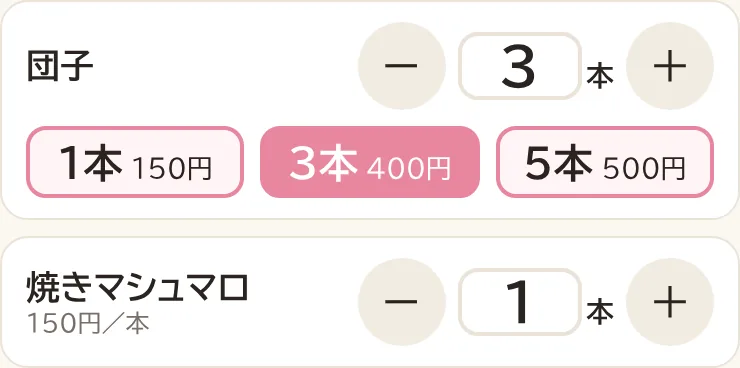
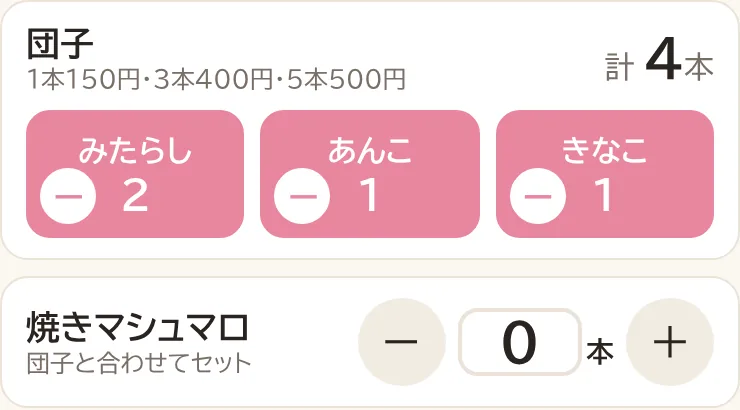
キッチン画面のスクリーンショットを撮り、ヘルプと README を充実
- キッチン画面のヘルプを、スクリーンショットつきのよくある質問に（見かた・できた/戻す・遅れ・取消・音・通信）
- レジのヘルプを味ごとの入力に合わせて書き直し、画像を撮り直し（味ボタン・お会計・確認画面・最近の会計）。キッチンとの連携、会計番号と「できた」の説明を追加
- 管理画面とダッシュボードのヘルプに味の説明と画像を追加
- README に当日の注文の流れ、キッチンの詳しい説明、スクリーンショット、準備の手順（味の登録・キッチン端末）を追加
- スワイプ中の表示を、確定するところで不透明な緑＋「離すと『できた』」に変更
- ヘルプ画像を差し替えたので Service Worker の版を更新

Claude-Session: https://claude.ai/code/session_01UZ9qf5JxoP9bu9V8PunLta

diff --git a/public/admin.html b/public/admin.html
@@ -388,13 +388,13 @@
   <details open>
     <summary>会計の基本の流れは？</summary>
     <ol>
-      <li>商品（団子、焼きマシュマロ）ごとに、お客さんが買う本数を入れる（セットは自動で一番安く組まれます）</li>
+      <li>お客さんの注文を聞いて、<b>味ごと</b>に本数を入れる（団子は味のボタンをタップ、焼きマシュマロは「＋」「−」。セットは自動で一番安く組まれます）</li>
       <li>「お会計」で合計金額を確認して、お客さんに伝える</li>
       <li>支払方法（現金、PayPay、d払い）のボタンを押す</li>
       <li>現金ならお預かり金額を入れる</li>
-      <li>確認画面で内容を見て「はい（記録する）」を押す</li>
+      <li>確認画面で内容（味も）を見て「はい（記録する）」を押す</li>
     </ol>
-    <p>記録すると画面下に「記録しました」と出て、お会計は空に戻ります。現金のときは、その表示にもおつりが出ます。電波がなくても記録できます（あとで自動で送信されます）。</p>
+    <p>記録すると画面下に「記録しました」と出て、お会計は空に戻ります。現金のときは、その表示にもおつりが出ます。記録した注文は<b>キッチン画面に自動で届く</b>ので、ノートに書いたり口で伝えたりする必要はありません。電波がなくても記録できます（あとで自動で送信されます）。</p>
   </details>
 
   <details>
@@ -413,19 +413,21 @@
   <h3 class="help-group">会計のしかた</h3>
 
   <details>
-    <summary>本数の入れ方は？</summary>
-    <figure class="narrow"><img src="/help/reg-qty.webp" width="370" height="184" loading="lazy" alt="商品ごとの本数の入力欄。団子はマイナス、本数、プラスのボタンと、1本、3本、5本のボタン。焼きマシュマロはマイナス、本数、プラスのボタン"></figure>
-    <p>商品ごとに本数を入れます。団子は「1本」「3本」「5本」のボタンを押すと、その本数になります（足し算ではありません）。それ以外の本数は「＋」「−」で増減するか、数字をタップして直接入力します。焼きマシュマロのようにセットのない商品は「＋」「−」で入れます。</p>
-    <p>セットの組み方は自動です。たとえば団子4本なら「3本セット＋1本」、7本なら「5本セット＋1本×2」と、お客さんに一番有利な組み方で計算します。</p>
-    <p><b>味のある商品</b>（管理画面で味を登録した商品）は、数の入れ方が変わります。お客さんの言う味のボタンを、その本数だけタップしてください（「みたらし2本、あんこ1本」なら みたらし を2回、あんこ を1回）。押しすぎたら、そのボタンの右上の「−」で減らします。合計の本数でセットが自動で組まれるので、味の組み合わせは自由です。入れた味はキッチン画面に注文として届きます。</p>
-    <p>焼きマシュマロは<b>団子と合わせてセット</b>になります。たとえば団子3本＋焼きマシュマロ2本なら、合わせて5本で「5本セット500円」です。容器代は団子の本数だけで計算します。</p>
+    <summary>本数の入れ方は？（味ごとの入力）</summary>
+    <figure class="narrow"><img src="/help/reg-qty.webp" width="370" height="205" loading="lazy" alt="商品ごとの入力欄。団子は、みたらし2、あんこ1、きなこ1の味のボタンと、計4本の表示。各ボタンの左下にマイナス。焼きマシュマロはマイナス、本数、プラスのボタン"></figure>
+    <p><b>団子のように味のある商品</b>は、お客さんの言う味のボタンを、その本数だけタップします。「みたらし2本と、あんこ・きなこ1本ずつ」なら、「みたらし」を2回、「あんこ」と「きなこ」を1回ずつ押します。ボタンに本数が出て、右上の「計 ○本」が合計です。</p>
+    <p>押しすぎたら、そのボタンの左下の「−」で1本ずつ減らします（「−」は1本以上入っている味にだけ出ます）。全部やり直すときは「お会計」の「クリア」を押します。</p>
+    <p>セットの組み方は<b>味に関係なく合計の本数</b>で自動で決まります。たとえば団子4本なら「3本セット＋1本」、7本なら「5本セット＋1本×2」と、お客さんに一番有利な組み方で計算します。味の組み合わせは自由です。</p>
+    <p>焼きマシュマロのように味のない商品は「＋」「−」で増減するか、数字をタップして直接入力します。焼きマシュマロは<b>団子と合わせてセット</b>になります。たとえば団子3本＋焼きマシュマロ2本なら、合わせて5本で「5本セット500円」です。容器代は団子の本数だけで計算します。</p>
+    <p>味の種類は管理画面で変えられます（変えると30秒以内にレジのボタンも変わります）。</p>
   </details>
 
   <details>
     <summary>「あと1本で〜お得」と出たら？</summary>
-    <figure class="narrow"><img src="/help/reg-cart.webp" width="370" height="193" loading="lazy" alt="お会計欄。団子4本（3本セットと1本）、容器代10円、合計560円。あと1本で50円お得という提案と、5本にするボタン"></figure>
+    <figure class="narrow"><img src="/help/reg-cart.webp" width="370" height="201" loading="lazy" alt="お会計欄。団子4本（3本セットと1本）550円、その下に味の内訳みたらし2・あんこ1・きなこ1、容器代10円、あと1本で50円お得（味を聞いて追加）という提案、合計560円"></figure>
     <p>本数を少し足したほうが合計が安くなるときに出る提案です。上の例では、団子4本だと560円ですが、5本にすると510円で50円安くなります。</p>
-    <p>お客さんに「あと1本足すとお得になりますよ」と声をかけて、希望されたら黄色の「5本にする」ボタンを押してください。そのままでよければ、何もせず会計に進んでかまいません。</p>
+    <p>お客さんに「あと1本足すとお得になりますよ」と声をかけて、希望されたら<b>何味にするか聞いて</b>、その味のボタンを押してください。そのままでよければ、何もせず会計に進んでかまいません。</p>
+    <p>味のない商品だけのときは、提案の横に黄色の「○本にする」ボタンが出るので、それを押せば足せます。</p>
   </details>
 
   <details>
@@ -453,8 +455,8 @@
 
   <details>
     <summary>確認画面では何を見ればいい？</summary>
-    <figure class="narrow"><img src="/help/reg-confirm.webp" width="358" height="451" loading="lazy" alt="確認画面。現金の表示、団子5本セット500円、容器代10円、合計510円、お預かり1,000円、おつり490円、いいえとはいのボタン"></figure>
-    <p>いちばん上の色つきの帯が支払方法です（現金は緑、PayPay と d払いは赤）。本数、合計金額、現金ならおつりを確かめて、よければ「はい（記録する）」を押します。</p>
+    <figure class="narrow"><img src="/help/reg-confirm.webp" width="390" height="520" loading="lazy" alt="確認画面。現金の表示、団子5本セット500円、容器代10円、数量 団子5本、味 みたらし2・あんこ2・きなこ1、合計510円、お預かり1,000円、おつり490円、いいえとはいのボタン"></figure>
+    <p>いちばん上の色つきの帯が支払方法です（現金は緑、PayPay と d払いは赤）。本数、<b>味</b>（ピンクの行）、合計金額、現金ならおつりを確かめて、よければ「はい（記録する）」を押します。味は、お客さんに読み上げて確かめると間違いが減ります。</p>
     <p>間違いに気づいたら「いいえ」を押すと、入力したお会計はそのままで前の画面に戻ります。現金で、お預かり金額だけを直したいときは「← お預かり金額を入力し直す」を押してください。</p>
   </details>
 
@@ -462,10 +464,16 @@
 
   <details>
     <summary>記録した会計を間違えた</summary>
-    <figure class="narrow"><img src="/help/reg-hist.webp" width="370" height="305" loading="lazy" alt="最近の会計の一覧。2行目は取消済みで取り消し線が引かれ、戻すボタンになっている"></figure>
-    <p>「最近の会計」の一覧で、その会計の「取消」を押します。取り消した会計には取り消し線が引かれ、売上と本数から外れます。正しい内容で、もう一度会計し直してください。</p>
+    <figure class="narrow"><img src="/help/reg-hist.webp" width="370" height="368" loading="lazy" alt="最近の会計の一覧。各行に会計番号と時刻、内容と味、金額、取消ボタン。キッチンで作り終わった会計には「できた」の印。取消済みの行は取り消し線が引かれ、戻すボタンになっている"></figure>
+    <p>「最近の会計」の一覧で、その会計の「取消」を押します。取り消した会計には取り消し線が引かれ、売上と本数から外れます。キッチン画面でも赤い線で「取消」と表示されるので、作らずに済みます。正しい内容（正しい味）で、もう一度会計し直してください。</p>
     <p>取り消しを間違えたときは、同じ行の「戻す」で元に戻せます。取消と戻すは、誰がいつしたかが記録されます。電波がないときも取り消せます（あとで自動で送信されます）。</p>
     <p>ここに出るのは最新の5件です。それより前の会計は、下の「すべての会計を見る」から探して取り消してください（こちらは電波が必要です）。</p>
+  </details>
+
+  <details>
+    <summary>「#12」や「✓できた」は何？</summary>
+    <p>「#12」は会計番号で、キッチン画面の注文番号と同じです。お客さんへの受け渡しや、キッチンとのやりとりに使えます（電波がなくて未送信の会計には、送信されるまで番号が付きません）。</p>
+    <p>「✓できた」は、キッチンでその注文を作り終えた印です。受け渡しの目安にしてください。</p>
   </details>
 
   <details>
@@ -499,6 +507,15 @@
   <details>
     <summary>パスワードを入れてもログインできない</summary>
     <p>パスワードを何度か間違えると、しばらく（10分間）ログインできなくなります。同じ Wi-Fi やテザリングを使っているほかの人も巻き込まれることがあります。急ぐときは、店の責任者に管理画面から解除してもらってください。</p>
+  </details>
+
+  <h3 class="help-group">キッチンとの連携</h3>
+
+  <details>
+    <summary>注文はキッチンにどう伝わる？</summary>
+    <p>会計を記録すると、その注文（味ごとの本数）が<b>キッチン画面</b>（<code>/kitchen</code>）に自動で届きます。ノートに書く必要はありません。キッチンでは届いた順に並び、作り終わったらタップして打ち消し線を引きます。</p>
+    <p>キッチン画面は、画面下の「管理（マスター）」の欄の「🍳 キッチン画面」から開けます。キッチン用のスマホやタブレットで開き、名前（例：キッチン）とレジと同じパスワードでログインしてください。</p>
+    <p>電波がない間に記録した会計は、レジから送信されてからキッチンに届きます。帯の「未送信」が残っているときは、キッチンに声をかけてください。</p>
   </details>
 
   <h3 class="help-group">そのほか</h3>

diff --git a/public/kitchen.html b/public/kitchen.html
@@ -84,9 +84,11 @@
   .cancelled .ostate { color: var(--red); font-weight: 700; }
   .order.syncing .ostate::after { content: '（送信中…）'; color: var(--sub); font-weight: 400; }
   /* スワイプ中のヒント */
-  .order .hint { position: absolute; inset: 0; border-radius: 12px; display: flex; align-items: center; padding: 0 14px; font-size: 18px; font-weight: 700; color: #fff; opacity: 0; pointer-events: none; }
-  .order .hint.ok { background: rgba(91, 140, 58, .85); }
-  .order .hint.back { background: rgba(122, 111, 102, .85); justify-content: flex-end; }
+  /* 線の手前までは薄く、指を離せば決まるところまで来たら不透明になる */
+  .order .hint { position: absolute; inset: 0; z-index: 2; border-radius: 12px; display: flex; align-items: center; justify-content: center;
+                 font-size: 26px; font-weight: 700; color: #fff; opacity: 0; pointer-events: none; }
+  .order .hint.ok { background: var(--green); }
+  .order .hint.back { background: var(--sub); }
   .empty { text-align: center; color: var(--sub); padding: 40px 12px; grid-column: 1 / -1; }
 
   /* ログイン */
@@ -139,26 +141,94 @@
     <h2>キッチン画面の使い方</h2>
     <button class="help-close" type="button">閉じる</button>
   </div>
+
+  <h3 class="help-group">はじめに</h3>
+
   <details open>
     <summary>この画面は？</summary>
-    <p>レジで記録した注文が、届いた順に並びます（数秒ごとに自動で更新）。大学ノートの代わりに、ここを見て作ってください。</p>
-    <p>上の帯の「まだ ○件」と、その下のピンクの枠は、まだ「できた」にしていない注文の合計です（例：みたらし 5、あんこ 3）。まとめて焼くときの目安にしてください。</p>
+    <figure class="narrow"><img src="/help/kitchen-phone.webp" width="390" height="844" style="max-width:220px;border:1px solid var(--line);border-radius:12px" loading="lazy" alt="キッチン画面の全体。上にまだ4件と味ごとの合計、下に注文が番号順に並び、できた注文には打ち消し線"></figure>
+    <p>レジで記録した注文が、<b>届いた順に</b>並ぶ画面です。これまで大学ノートに書いていた注文の代わりに、ここを見て作ってください。3秒ごとに自動で更新されるので、操作しなくても新しい注文が下に増えていきます。</p>
+    <p>作り終わった注文には打ち消し線を引きます（ノートの注文を線で消していたのと同じです）。</p>
   </details>
+
   <details>
-    <summary>作り終わったら？</summary>
-    <p>その注文を<b>タップ</b>するか、<b>右へスワイプ</b>すると「できた」になり、打ち消し線が引かれます。ほかのキッチンの端末やレジにも反映されます（レジの「最近の会計」に「✓できた」と出ます）。</p>
-    <p>間違えたときは、もう一度タップするか、左へスワイプすると元に戻ります。画面下に出る「元に戻す」でも戻せます。</p>
+    <summary>ログインのしかたは？</summary>
+    <figure class="narrow"><img src="/help/kitchen-login.webp" width="360" height="346" loading="lazy" alt="キッチンのログイン画面。名前とレジ用パスワードの入力欄とログインボタン"></figure>
+    <p>名前（例：「キッチン」や自分の名前）と、<b>レジと同じパスワード</b>を入れて「ログイン」を押します。ログインは3日間有効です。</p>
   </details>
+
+  <h3 class="help-group">注文の見かた</h3>
+
   <details>
-    <summary>表示について</summary>
+    <summary>1つの注文の見かたは？</summary>
+    <figure class="narrow"><img src="/help/kitchen-new.webp" width="366" height="161" loading="lazy" alt="注文のカード。#7、18時38分、1分、みたらし×1、あんこ×1、焼きマシュマロ×2"></figure>
     <ul>
-      <li>右上の「○分」は、注文してからの時間です。10分を超えるとオレンジ、15分を超えると赤になります。</li>
-      <li>レジで取り消された注文には赤い線が引かれ、「取消」と出ます（作らなくてよい注文です）。</li>
-      <li>「できたを隠す」を押すと、できた注文を一覧から隠します。</li>
-      <li>「🔔 音」がオンのとき、新しい注文が届くと音が鳴ります（最初に一度画面をタップすると鳴るようになります）。</li>
-      <li>表示されるのは今日の注文だけです。番号はレジの会計番号（#）と同じです。</li>
-      <li>電波のないところでレジが打った注文は、レジが送信してから届きます。</li>
+      <li><b>#7</b>：注文番号（レジの会計番号と同じ）</li>
+      <li><b>18:38</b>：レジで会計した時刻</li>
+      <li><b>右上の「1分」</b>：注文してからの時間</li>
+      <li><b>みたらし ×1</b>：作る味と本数。味のない商品（焼きマシュマロなど）は商品名で出ます</li>
     </ul>
+  </details>
+
+  <details>
+    <summary>上のピンクの枠（味ごとの合計）は？</summary>
+    <figure class="narrow"><img src="/help/kitchen-todo.webp" width="390" height="159" loading="lazy" alt="画面上部。キッチン、まだ4件、更新時刻、できたを隠す・音・使い方のボタン、みたらし4・あんこ4・きなこ3・焼きマシュマロ3"></figure>
+    <p>「まだ ○件」は、まだ「できた」にしていない注文の数です。ピンクの枠は、それらの注文を<b>味ごとに足した本数</b>です。まとめて焼くときや、タレの準備の目安にしてください。「できた」にすると、その分が減ります。</p>
+  </details>
+
+  <details>
+    <summary>枠がオレンジや赤になった</summary>
+    <figure class="narrow"><img src="/help/kitchen-late.webp" width="366" height="189" loading="lazy" alt="赤い枠の注文。#3、17分、みたらし×2、あんこ×1、きなこ×1、焼きマシュマロ×1"></figure>
+    <p>注文から時間がたっている印です。<b>10分を超えるとオレンジ、15分を超えると赤</b>になります。お客さんを待たせているので、先に作るか、レジに声をかけてください。</p>
+  </details>
+
+  <details>
+    <summary>赤い線で「取消」と出ている</summary>
+    <figure class="narrow"><img src="/help/kitchen-cancel.webp" width="366" height="107" loading="lazy" alt="取り消された注文。#5、みたらし×1に赤い線、取消（作らなくてよい注文です）"></figure>
+    <p>レジで取り消された注文です。<b>作らなくてかまいません</b>（味ごとの合計にも入っていません）。たいていは、すぐ後ろに正しい内容の注文が届いています。</p>
+  </details>
+
+  <h3 class="help-group">作り終わったら</h3>
+
+  <details>
+    <summary>「できた」にするには？</summary>
+    <figure class="narrow"><img src="/help/kitchen-swipe.webp" width="390" height="185" loading="lazy" alt="注文のカードを右へスワイプしている途中。緑色になり、離すとできたと表示"></figure>
+    <p>その注文を<b>タップ</b>するか、<b>右へスワイプ</b>します。スワイプは、カードが緑色になって「離すと『できた』」と出たところで指を離してください（途中で離すと何も変わりません）。</p>
+    <figure class="narrow"><img src="/help/kitchen-done.webp" width="366" height="105" loading="lazy" alt="できた注文。#2、きなこ×3に打ち消し線、できた18時39分（タップで戻す）"></figure>
+    <p>「できた」にすると打ち消し線が引かれ、時刻が記録されます。ほかのキッチンの端末と、レジの「最近の会計」（「✓できた」）にも反映されます。</p>
+  </details>
+
+  <details>
+    <summary>間違えて「できた」にした</summary>
+    <p>もう一度タップするか、<b>左へスワイプ</b>すると元に戻ります。直後なら、画面下に出る「元に戻す」を押しても戻せます。</p>
+  </details>
+
+  <details>
+    <summary>できた注文が多くて見づらい</summary>
+    <p>上の「できたを隠す」を押すと、できた注文と取り消された注文を一覧から隠します。もう一度押すと表示に戻ります（この端末だけの設定です）。</p>
+  </details>
+
+  <h3 class="help-group">そのほか</h3>
+
+  <details>
+    <summary>新しい注文の音が鳴らない</summary>
+    <p>スマホやタブレットは、画面を一度も触っていないと音を出せません。画面を開いたら、どこか一度タップしてください。「🔔 音」が「🔕 音なし」になっていたら、押してオンにします。マナーモードやサイレントの設定も確かめてください。新しい注文は、音と一緒にピンクに光ります。</p>
+  </details>
+
+  <details>
+    <summary>右上が赤く「通信できません」と出た</summary>
+    <p>電波が届いていません。その間は新しい注文が届かず、「できた」も送れません。電波が戻ると自動で更新されます。</p>
+    <p>レジ側の電波がないときは、レジで記録した注文がレジの端末にたまり、送信されてからキッチンに届きます。注文が来ないと思ったら、レジに「未送信」がないか聞いてください。</p>
+  </details>
+
+  <details>
+    <summary>昨日の注文が出ない</summary>
+    <p>この画面に出るのは<b>今日（日本時間）の注文だけ</b>です。日付が変わると一覧は空になります。過去の会計はレジの「すべての会計を見る」で見られます。</p>
+  </details>
+
+  <details>
+    <summary>味の種類を変えたい</summary>
+    <p>味の種類は管理画面の「商品・価格」で変えます（マスターパスワードが必要なので、店の責任者に頼んでください）。すでに届いている注文の味の表示は変わりません。</p>
   </details>
 </dialog>
 
@@ -340,7 +410,7 @@
         : done ? '✓ できた' + (o.doneAt && !(o.id in overrides) ? ' ' + hhmm(o.doneAt) : '') + '（タップで戻す）'
         : 'タップ／右へスワイプで「できた」';
       return '<div class="' + cls.join(' ') + '" data-id="' + o.id + '" role="button" tabindex="0" aria-pressed="' + done + '">' +
-        '<div class="hint ok">✓ できた</div><div class="hint back">戻す ↩</div>' +
+        '<div class="hint ok">✓ 離すと「できた」</div><div class="hint back">↩ 離すと戻す</div>' +
         '<div class="oh"><span class="no">#' + o.id + '</span><span class="tm">' + hhmm(o.createdAt) + '</span>' +
           '<span class="age">' + (done || o.cancelled ? '' : age.text) + '</span></div>' +
         '<ul class="ol">' + o.lines.map(l => '<li><span>' + lineLabel(l) + '</span><span class="q t">×' + l.qty + '</span></li>').join('') + '</ul>' +
@@ -397,7 +467,7 @@
     }
     drag.dx = dx;
     drag.el.style.transform = 'translateX(' + dx + 'px)';
-    const k = Math.min(1, Math.abs(dx) / SWIPE);
+    const k = Math.abs(dx) >= SWIPE ? 1 : Math.min(0.6, Math.abs(dx) / SWIPE * 0.6);
     drag.el.querySelector('.hint.ok').style.opacity = dx > 0 ? k : 0;
     drag.el.querySelector('.hint.back').style.opacity = dx < 0 ? k : 0;
   });

diff --git a/public/master.html b/public/master.html
@@ -224,18 +224,19 @@
 
   <details open>
     <summary>管理画面でできること</summary>
-    <p>店の責任者向けの画面です。商品・価格と容器代のルールの変更、目標金額の変更、レジのパスワードの変更、ログイン中の端末の締め出し、ログイン制限の解除、テスト用の売上記録の全リセットができます。入るにはマスターパスワードが必要で、ログインは<b>12時間</b>有効です。</p>
-    <p>会計の入力や取り消しは、ここではなくレジ画面で行います。</p>
+    <p>店の責任者向けの画面です。商品・価格・味と容器代のルールの変更、目標金額の変更、レジのパスワードの変更、ログイン中の端末の締め出し、ログイン制限の解除、テスト用の売上記録の全リセットができます。入るにはマスターパスワードが必要で、ログインは<b>12時間</b>有効です。</p>
+    <p>会計の入力や取り消しは、ここではなくレジ画面で行います。注文の調理の管理は、キッチン画面（<code>/kitchen</code>・レジのパスワードでログイン）で行います。</p>
   </details>
 
   <h3 class="help-group">よく使う操作</h3>
 
   <details>
     <summary>商品や価格を変える・追加する</summary>
-    <figure><img src="/help/master-products.webp" width="658" height="270" loading="lazy" alt="商品・価格の欄。団子の商品名、単位、1本150円、3本セット400円、5本セット500円、容器代の対象と販売中のチェック、保存ボタン"></figure>
+    <figure><img src="/help/master-products.webp" width="638" height="369" loading="lazy" alt="商品・価格の欄。団子の商品名、単位、1本150円、3本セット400円、5本セット500円、味の欄（みたらし、あんこ、きなこ）、セットの選択、容器代の対象と販売中のチェック、保存ボタン"></figure>
     <p>「商品・価格」で、商品名、単位、数量ごとの価格（セット）を直して「保存」を押します。変えた商品の枠は保存するまで黄色になります。新しい商品は「＋ 商品を追加」から。1個（1本）の価格は必ず入れてください。</p>
     <p>「セット」で「○○のセット価格に含める」を選ぶと、その商品と本数を合わせて、相手の商品のセット価格で計算します（例：<b>焼きマシュマロの欄</b>で「団子のセット価格に含める」にすると、団子3本＋焼きマシュマロ2本で5本セット500円）。相手に選べるのは、セット価格（2本以上の価格）がある商品だけです。混ぜたセットの金額は、本数の割合で商品ごとに分けて記録します。</p>
-    <p>「味」に「みたらし、あんこ、きなこ」のように「、」で区切って入れると、レジではその商品を<b>味ごとに</b>数えて入力するようになり、キッチンの注文キュー（<code>/kitchen</code>）にも味ごとに表示されます。セットの組み方や金額は味に関係なく、合計の本数で決まります。味を空にすると、これまでどおり数だけを入れる商品になります。</p>
+    <p>「味」に「みたらし、あんこ、きなこ」のように「、」で区切って入れると、レジではその商品を<b>味ごとに</b>数えて入力するようになり、キッチン画面（<code>/kitchen</code>）にも味ごとに表示されます。セットの組み方や金額は味に関係なく、合計の本数で決まります。味を空にすると、これまでどおり数だけを入れる商品になります。味は12種類まで、1つ12文字までです。並べた順に、レジのボタンとキッチンの合計が並びます。</p>
+    <p>味の名前を変えたり消したりしても、すでに記録した会計の味は、記録したときの名前のまま残ります。営業中に変えると、レジで入力途中の会計から消した味の分が外れるので、会計の合間に変えてください。</p>
     <p>「容器代の対象」にした商品の本数で容器代を計算します。「販売中」を外すとレジに出なくなります（販売の記録がある商品は削除できないので、こちらで止めてください）。↑↓ でレジでの並び順を変えられます。</p>
     <p>価格を変えても、すでに記録した会計の金額は変わりません。レジは次に画面を更新したとき（30秒以内）に新しい価格になります。</p>
   </details>

diff --git a/public/index.html b/public/index.html
@@ -228,6 +228,8 @@
   <details>
     <summary>「売れた数」とセットの個数</summary>
     <p>商品ごとの売れた数（本数）と、セットのある商品はセットごとの個数です。レジは本数からセットを自動で組むので、たとえば団子4本の会計は「3本セット1個と1本1個」として数えます。</p>
+    <figure class="narrow"><img src="/help/dash-flavors.webp" width="316" height="233" loading="lazy" alt="売れた数の団子の欄。セットごとの個数の下に、味ごとの本数（みたらし、あんこ、きなこ）"></figure>
+    <p>味を登録した商品は、その下に<b>味ごとの本数</b>も出ます（取り消した会計は除く）。どの味がよく売れているかを見て、仕込みや来年の仕入れの参考にしてください。</p>
   </details>
 
   <details>

diff --git a/public/sw.js b/public/sw.js
@@ -6,7 +6,7 @@
  * - ネットワーク優先：つながれば最新を表示してキャッシュも更新、つながらない（または遅い）ときだけキャッシュを使う。
  * - アプリを更新したら VERSION を変える。新しい版が入ると古いキャッシュは消える。
  */
-const VERSION = '2026-11-02-2';
+const VERSION = '2026-11-02-3';
 const CACHE = 'mogiten-register-' + VERSION;
 const FONT_CACHE = 'mogiten-fonts-v1';      // Web フォント（版をまたいで使い回す）
 const SHELL = ['/admin', '/pricing.js', '/help.css', '/help.js'];

diff --git a/README.md b/README.md
@@ -10,6 +10,24 @@
 | 管理画面 | `https://mogiten.<あなたのサブドメイン>.workers.dev/master` | マスターパスワード（12時間有効） |
 | キッチン | `https://mogiten.<あなたのサブドメイン>.workers.dev/kitchen` | 名前＋レジ用パスワード（レジと同じ・3日間有効） |
 
+<p>
+<img src="public/help/kitchen-tablet.webp" width="640" alt="キッチン画面（タブレット）。上にまだ4件と味ごとの合計、注文が番号順に並び、できた注文には打ち消し線、取消は赤い線、時間がたった注文はオレンジや赤の枠">
+</p>
+
+## 当日の注文の流れ
+
+これまでは注文の味を大学ノートに書き、厨房がノートを見て作っていました。この版から、レジで記録した注文がそのままキッチン画面に届きます。
+
+1. **レジ**（`/admin`）：お客さんの注文を聞き、味のボタンを本数だけタップ → 支払方法 → 確認画面で味を読み上げて「はい（記録する）」
+2. **キッチン**（`/kitchen`）：注文が届いた順に並ぶ（数秒で届き、音が鳴る）。上のピンクの枠の「味ごとの合計」を見てまとめて焼く
+3. 作り終わったら注文を **タップ（または右へスワイプ）** → 打ち消し線が引かれ、レジの「最近の会計」にも「✓できた」が出る
+4. 注文番号（#）はレジとキッチンで共通。受け渡しや「#12 の味は？」のやりとりに使う
+5. レジで取り消した注文は、キッチンに赤い線の「取消」で出る（作らなくてよい）
+
+| レジ：味ごとに入力 | レジ：確認画面 | キッチン（スマホ） |
+|---|---|---|
+| <img src="public/help/reg-qty.webp" width="240" alt="レジの味ボタン。みたらし2、あんこ1、きなこ1、計4本"> | <img src="public/help/reg-confirm.webp" width="240" alt="確認画面。団子5本セット、味 みたらし2・あんこ2・きなこ1、合計510円、おつり490円"> | <img src="public/help/kitchen-phone.webp" width="240" alt="キッチン画面のスマホ表示"> |
+
 ## できること
 
 **ダッシュボード**（1分ごとに自動更新）
@@ -29,12 +47,16 @@
   - 例: 団子4本 → 3本セット＋1本（550円）、7本 → 5本セット＋1本×2（800円）
   - 何本か足したほうが安くなるとき（例: 団子4本より5本のほうが安い）は「あと1本で合計¥520（¥40安く）」と提案を表示
   - 1会計で複数の商品を一緒に記録できます
+  - セットの組み方と金額はサーバー側でも計算し直します。会計中に管理画面で価格が変わった場合は記録せず、画面を更新して確認を求めます
 - **味ごとの注文**：管理画面で商品に味（例: みたらし、あんこ、きなこ）を登録すると、その商品は「何本」ではなく **味ごとに** 数を入れます
-  - 味のボタンをタップした回数がその味の本数（右下の − で減らす）。「計 N本」に合計を表示
+  - 味のボタンをタップした回数がその味の本数（ボタン左下の − で減らす）。右上の「計 N本」に合計を表示
   - セットの組み方と金額は、味に関係なく合計の本数で決まります（例: みたらし2＋あんこ1＋きなこ1＝4本 → 3本セット＋1本）
+  - 足したほうが安くなるときの提案は「あと1本で¥50お得（味を聞いて追加）」。味を聞いて、その味のボタンで足す
   - お会計・確認画面・最近の会計・会計の一覧・CSV（「味」列）に味の内訳を表示
   - 記録した味はキッチン画面に注文として届きます。最近の会計には会計番号（#）と、キッチンで作り終わった注文に「✓できた」を表示
-  - セットの組み方と金額はサーバー側でも計算し直します。会計中に管理画面で価格が変わった場合は記録せず、画面を更新して確認を求めます
+  - 味を登録していない商品は、これまでどおりセットのボタンや ＋/− で数を入れます
+
+  <img src="public/help/reg-cart.webp" width="320" alt="お会計欄。団子4本（3本セット＋1本）、味の内訳、容器代、あと1本で50円お得の提案、合計560円">
 - **容器代を自動で計算して合計に加算**（「容器代の対象」にした商品の、1会計の合計数で判定。初期設定は団子のみ対象）
 
   | 数 | 容器代（初期設定） |
@@ -57,14 +79,30 @@
 - 操作の記録（取消・戻す・ログイン・パスワード変更など、誰がいつしたか）
 - 管理画面へのリンク（目標金額の変更、レジのパスワード変更、締め出しは管理画面から）
 
-**キッチン（注文キュー）**
-- 大学ノートの代わりに、レジで記録した注文を **届いた順に** 並べて表示します（3秒ごとに自動更新。変化がないときは版番号だけを確認するので軽い）
-- 各注文に会計番号（#）、時刻、注文からの経過時間（10分でオレンジ、15分で赤）、味ごとの数
-- 作り終わった注文は **タップ** または **右へスワイプ** で「できた」→ 打ち消し線が引かれます。もう一度タップ／左へスワイプ／「元に戻す」で戻せます。ほかのキッチン端末とレジにも反映
-- 上の帯に「まだ N件」と、まだ作っていない分の **味ごとの合計**（まとめて焼くときの目安）
-- レジで取り消した注文は赤い線と「取消」で表示
-- 「できたを隠す」で作り終わった注文を隠せます。新しい注文が届くと音（🔔）とハイライトでお知らせ
-- 表示は今日（日本時間）の注文だけ。オンライン専用（電波がない間にレジで打った注文は、レジが送信してから届きます）
+**キッチン（注文キュー・`/kitchen`）**
+- 大学ノートの代わりに、レジで記録した注文を **届いた順に** 並べて表示します（3秒ごとに自動更新）
+- ログインは名前＋レジ用パスワード（レジと同じ。3日間有効）。キッチン用のスマホ・タブレットで開きっぱなしにして使う想定。タブレット横向きでは複数列に並びます
+- 各注文に会計番号（#）、時刻、注文からの経過時間、味ごとの数（味のない商品は商品名）
+
+  <img src="public/help/kitchen-new.webp" width="320" alt="注文のカード。#7、18時38分、1分、みたらし×1、あんこ×1、焼きマシュマロ×2">
+
+- 作り終わった注文は **タップ** または **右へスワイプ** で「できた」→ 左から打ち消し線が引かれます。スワイプは、カードが緑になり「離すと『できた』」と出たところで離すと確定（途中で離すと何もしない）
+- 間違えたら、もう一度タップ／左へスワイプ／画面下の「元に戻す」で戻せます。「できた」はほかのキッチン端末と、レジの「最近の会計」（✓できた）にも反映
+
+  | スワイプ中 | できた | 取消 |
+  |---|---|---|
+  | <img src="public/help/kitchen-swipe.webp" width="240" alt="右へスワイプ中の注文。緑になり、離すとできたと表示"> | <img src="public/help/kitchen-done.webp" width="240" alt="できた注文。打ち消し線とできた時刻"> | <img src="public/help/kitchen-cancel.webp" width="240" alt="取り消された注文。赤い線と取消の表示"> |
+
+- 上の帯に「まだ N件」と、まだ作っていない分の **味ごとの合計**（まとめて焼くとき・タレの準備の目安）
+
+  <img src="public/help/kitchen-todo.webp" width="320" alt="キッチン画面の上部。まだ4件、みたらし4、あんこ4、きなこ3、焼きマシュマロ3">
+
+- 注文から **10分でオレンジ、15分で赤** の枠になります（`public/kitchen.html` の `LATE_MIN` / `VERY_LATE_MIN`）
+- レジで取り消した注文は赤い線と「取消」で表示し、味ごとの合計にも入れません
+- 「できたを隠す」で、できた注文と取消を一覧から隠せます（端末ごとの設定）
+- 新しい注文が届くと音（🔔）とピンクのハイライトでお知らせ（ブラウザの制限で、画面を一度タップしてから鳴ります。「🔕 音なし」に切り替え可）
+- 表示は今日（日本時間）の注文だけ。オンライン専用です（電波がない間にレジで打った注文は、レジが送信してから届きます）
+- 3秒ごとの確認は、変化がなければ版番号（`settings.kitchen_rev`）を 1 行読むだけなので、D1 の無料枠をほとんど使いません。会計・取消・「できた」のたびに版番号が 1 増え、そのときだけ今日の注文を読み直します
 
 **オフライン対応（レジのみ）**
 - 会場の電波が途切れても会計を止めないための仕組みです。ダッシュボード・管理画面・会計の一覧はオンライン専用のままです。
@@ -98,7 +136,7 @@
 - **売上記録の全リセット（テスト用）**: 取消済みも含めたすべての会計を削除し、会計番号を #1 に戻す。「リセット」の入力とマスターパスワードの再入力が必要。リセット前にレジ端末にたまっていた未送信の会計は、あとで届いても記録されずに破棄される（売上記録の世代番号 `sales_epoch` で判定）。元に戻せないので、本番の営業が始まったら使わない
 
 **ヘルプ**
-- 3画面とも、画面上部の「?使い方」（ダッシュボードは「?見方」、幅の狭いスマホのレジは「?」だけ）ボタンで、スクリーンショットつきの使い方とよくある質問を表示します（レジと管理画面はログイン画面からも開けます）
+- 4画面とも、画面上部の「?使い方」（ダッシュボードは「?見方」、幅の狭いスマホのレジは「?」だけ）ボタンで、スクリーンショットつきの使い方とよくある質問を表示します（レジ・管理画面・キッチンはログイン画面からも開けます）
 - レジのヘルプは電波がなくても開けます（Service Worker で help.css / help.js と、一度表示した画像をキャッシュ）
 
 ## セキュリティのしくみ
@@ -159,9 +197,13 @@ npx wrangler secret put MASTER_PASSWORD   # 管理画面用
 
 あとは、
 - ダッシュボードの URL を QR コードにして店頭に貼る
+- 管理画面（`/master`）の「商品・価格」で、団子の「味」に売る味を「、」区切りで入れて保存する（例: `みたらし、あんこ、きなこ`）
 - レジ係の端末で `/admin` を開いて担当者名とパスワードを入れる（3日間ログインしたままになります）
+- キッチン用の端末で `/kitchen` を開いて名前（例: キッチン）とレジ用パスワードを入れ、画面を一度タップしておく（新しい注文の音が鳴るように）
 
 で準備完了です。
+
+<img src="public/help/master-products.webp" width="420" alt="管理画面の商品の欄。団子の価格とセット、味の欄（みたらし、あんこ、きなこ）">
 
 ### コードを修正したとき
 
